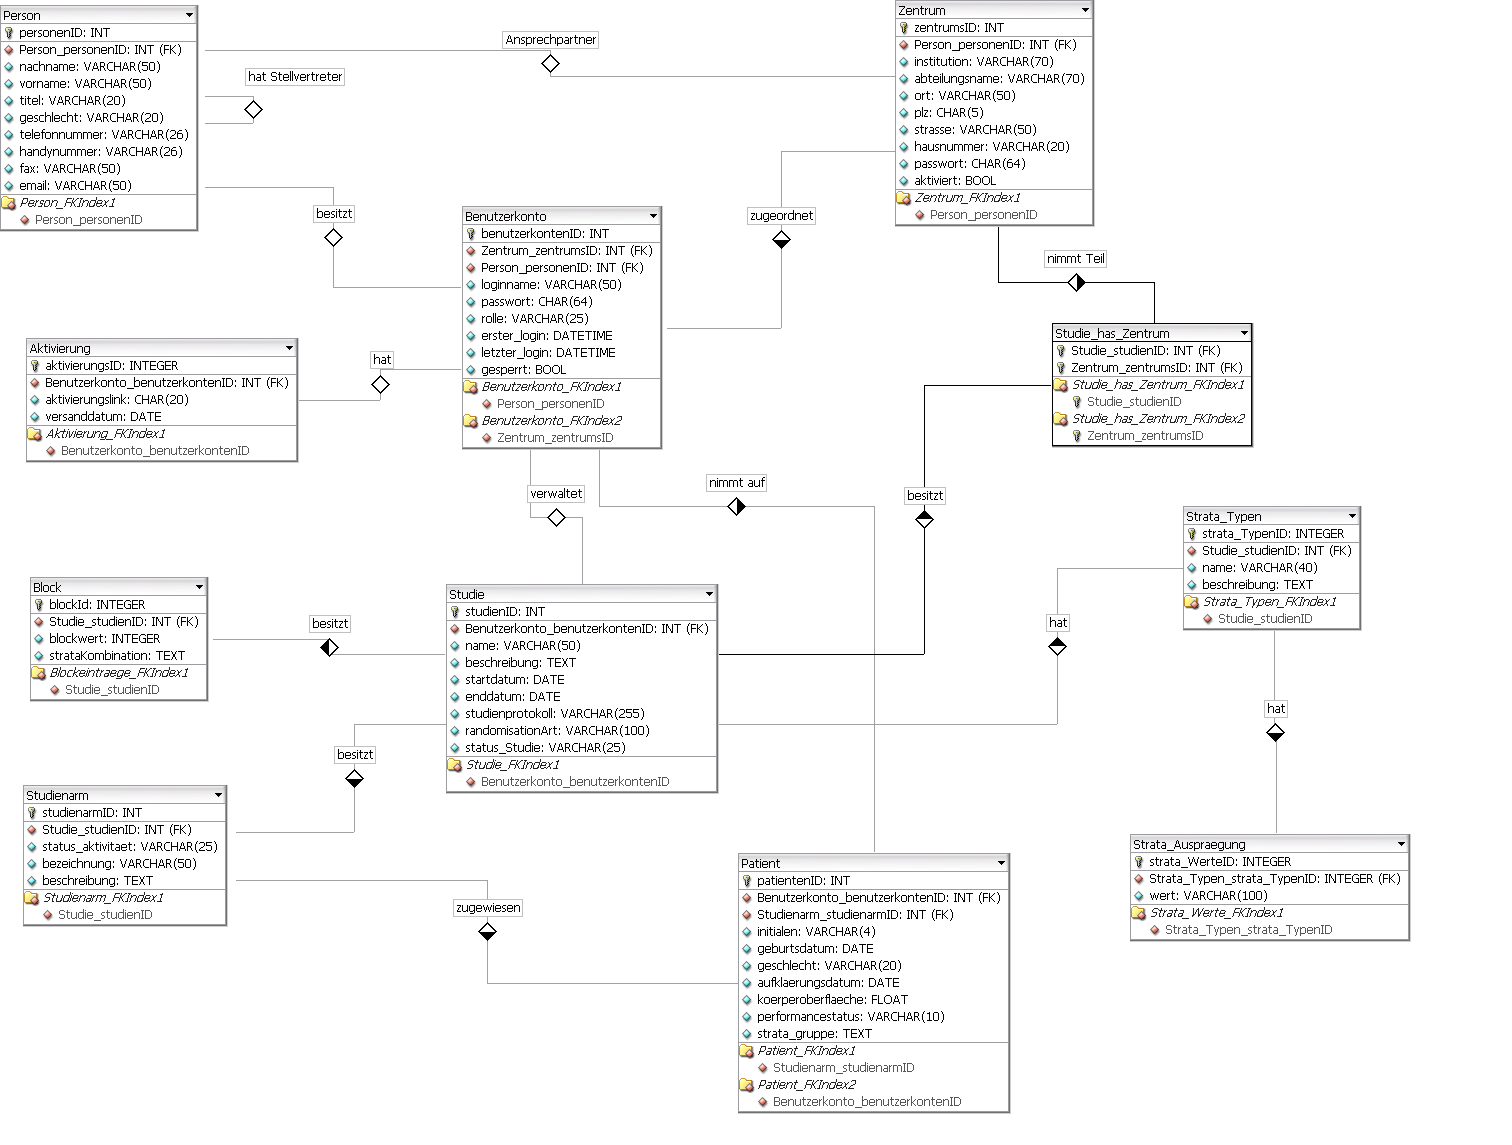
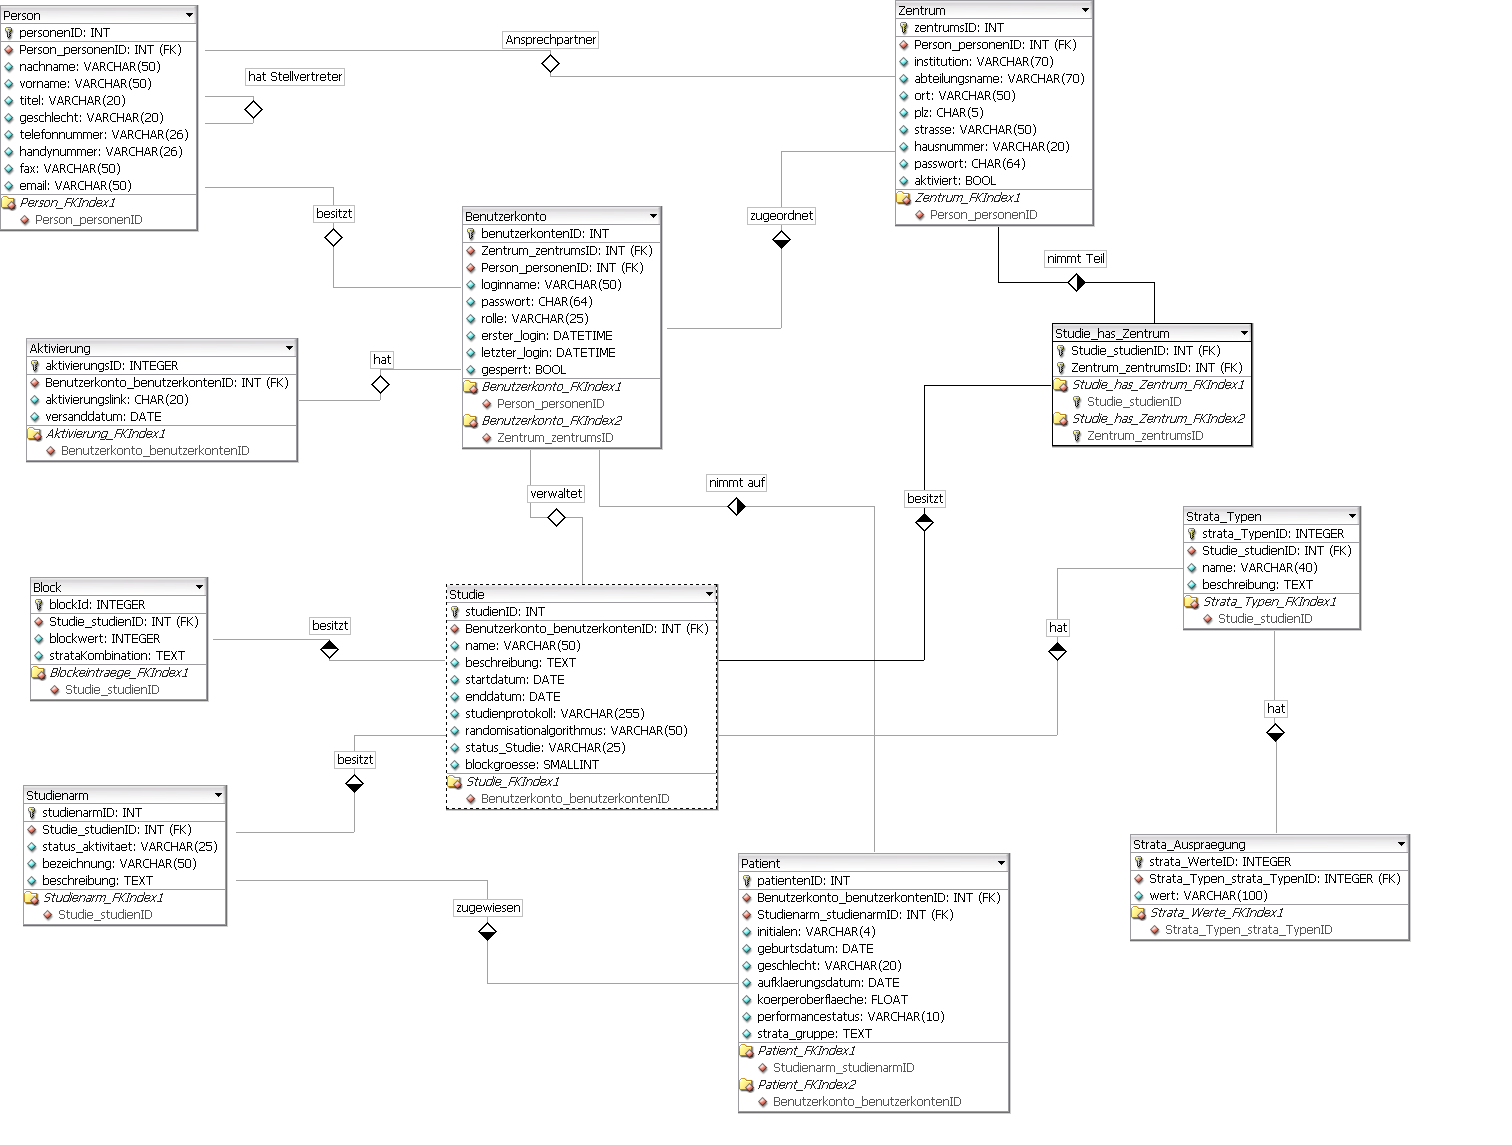
Studie hat zusaetzliches Feld: Blockgroesse
git-svn-id: https://randi2.svn.sourceforge.net/svnroot/randi2/randi/trunk/RANDI2@1642 ccfe945e-4522-0410-b90e-900a8cb55c58

diff --git a/src/de/randi2/datenbank/Datenbank.java b/src/de/randi2/datenbank/Datenbank.java
@@ -446,7 +446,12 @@ public class Datenbank implements DatenbankSchnittstelle {
 		/**
 		 * Der Status der Studie.
 		 */
-		STATUS("status_Studie");
+		STATUS("status_Studie"),
+		
+		/**
+		 * Groesse eines Blockes, falls Blockrandomisation gewaehlt ist
+		 */
+		BLOCKGROESSE("blockgroesse");
 
 		/**
 		 * Name eines Feldes.
@@ -1434,8 +1439,8 @@ public class Datenbank implements DatenbankSchnittstelle {
 						+ ", " + FelderStudie.RANDOMISATIONSALGORITHMUS + ", "
 						+ FelderStudie.STARTDATUM + ", "
 						+ FelderStudie.ENDDATUM + ", " + FelderStudie.PROTOKOLL
-						+ ", " + FelderStudie.STATUS + ") "
-						+ "VALUES (NULL,?,?,?,?,?,?,?,?)";
+						+ ", " + FelderStudie.STATUS +","+FelderStudie.BLOCKGROESSE+ ") "
+						+ "VALUES (NULL,?,?,?,?,?,?,?,?,?)";
 				pstmt = con.prepareStatement(sql,
 						Statement.RETURN_GENERATED_KEYS);
 				pstmt.setLong(i++, studie.getBenutzerkontoId());
@@ -1452,6 +1457,7 @@ public class Datenbank implements DatenbankSchnittstelle {
 						.getTimeInMillis()));
 				pstmt.setString(i++, studie.getStudienprotokollpfad());
 				pstmt.setString(i++, studie.getStatus().toString());
+				pstmt.setInt(i++, studie.getBlockgroesse());
 				pstmt.executeUpdate();
 				rs = pstmt.getGeneratedKeys();
 				rs.next();
@@ -1499,7 +1505,7 @@ public class Datenbank implements DatenbankSchnittstelle {
 					+ FelderStudie.RANDOMISATIONSALGORITHMUS + "=?, "
 					+ FelderStudie.STARTDATUM + "=?, " + FelderStudie.ENDDATUM
 					+ "=?, " + FelderStudie.PROTOKOLL + "=?, "
-					+ FelderStudie.STATUS + "=? " + "WHERE " + FelderStudie.ID
+					+ FelderStudie.STATUS + "=?, "+FelderStudie.BLOCKGROESSE+" = ? " + " WHERE " + FelderStudie.ID
 					+ "=?";
 			try {
 				pstmt = con.prepareStatement(sql);
@@ -1517,6 +1523,7 @@ public class Datenbank implements DatenbankSchnittstelle {
 						.getTimeInMillis()));
 				pstmt.setString(j++, studie.getStudienprotokollpfad());
 				pstmt.setString(j++, studie.getStatus().toString());
+				pstmt.setInt(j++, studie.getBlockgroesse());
 				pstmt.setLong(j++, studie.getId());
 				pstmt.executeUpdate();
 				pstmt.close();
@@ -2884,7 +2891,8 @@ public class Datenbank implements DatenbankSchnittstelle {
 						startDatum, endDatum, rs
 								.getString(FelderStudie.PROTOKOLL.toString()),
 						Status.parseStatus(rs.getString(FelderStudie.STATUS
-								.toString())));
+								.toString())), rs.getInt(FelderStudie.BLOCKGROESSE
+								.toString()));
 				studien.add(tmpStudie);
 			}
 			pstmt.close();
@@ -3268,7 +3276,9 @@ public class Datenbank implements DatenbankSchnittstelle {
 							startDatum, endDatum, rs
 									.getString(FelderStudie.PROTOKOLL
 											.toString()), Status.parseStatus(rs
-									.getString(FelderStudie.STATUS.toString())));
+									.getString(FelderStudie.STATUS.toString())),
+									rs.getInt(FelderStudie.BLOCKGROESSE
+											.toString()));
 
 				} catch (BenutzerException e) {
 					DatenbankExceptions de = new DatenbankExceptions(
@@ -3837,7 +3847,9 @@ public class Datenbank implements DatenbankSchnittstelle {
 							startDatum, endDatum, rs
 									.getString(FelderStudie.PROTOKOLL
 											.toString()), Status.parseStatus(rs
-									.getString(FelderStudie.STATUS.toString())));
+									.getString(FelderStudie.STATUS.toString())),
+									rs.getInt(FelderStudie.BLOCKGROESSE
+											.toString()));
 				} catch (StudieException e) {
 					DatenbankExceptions de = new DatenbankExceptions(
 							DatenbankExceptions.UNGUELTIGE_DATEN);
@@ -4081,6 +4093,8 @@ public class Datenbank implements DatenbankSchnittstelle {
 					.format(((StudieBean) aObjekt).getEndDatum().getTime()));
 			geaenderteDaten.put(FelderStudie.STATUS.toString(),
 					((StudieBean) aObjekt).getStatus().toString());
+			geaenderteDaten.put(FelderStudie.BLOCKGROESSE.toString(), 
+					String.valueOf(((StudieBean) aObjekt).getBlockgroesse()));
 
 		} else if (aObjekt instanceof StudienarmBean) {
 			geaenderteDaten.put(FelderStudienarm.STUDIE.toString(), String

diff --git a/src/de/randi2/model/fachklassen/beans/StudieBean.java b/src/de/randi2/model/fachklassen/beans/StudieBean.java
@@ -95,6 +95,11 @@ public class StudieBean extends Filter {
 	 * Status der Studie.
 	 */
 	private Status aStatus = null;
+	
+	/**
+	 * Falls die Studie mit Blockrandomisation konfiguriert ist, wird hier die Blockgroesse gespeichert
+	 */
+	private int blockgroesse= NullKonstanten.NULL_INT;
 
 	/**
 	 * Konstruktor mit allen Attributen der Klasse, die aus der Datenbank
@@ -120,6 +125,8 @@ public class StudieBean extends Filter {
 	 *            Studienprotokollpfad der Studie
 	 * @param status
 	 *            Status der Studie
+	 * @param blockgroesse
+	 * 			  Gibt die Blockgroesse fuer Blockrandomisation an
 	 * @throws StudieException
 	 *             wenn ein Fehler aufgetreten ist
 	 * @throws DatenbankExceptions
@@ -128,7 +135,7 @@ public class StudieBean extends Filter {
 	public StudieBean(long id, String beschreibung, String name,
 			Randomisation.Algorithmen algorithmus, long benutzerId,
 			GregorianCalendar startdatum, GregorianCalendar enddatum,
-			String studienprotokollPfad, Status status) throws StudieException,
+			String studienprotokollPfad, Status status, int blockgroesse) throws StudieException,
 			DatenbankExceptions {
 
 		super.setId(id);
@@ -139,6 +146,7 @@ public class StudieBean extends Filter {
 		this.setStudienZeitraum(startdatum, enddatum);
 		this.setStudienprotokollPfad(studienprotokollPfad);
 		this.setStatus(status);
+		this.setBlockgroesse(blockgroesse);
 	}
 
 	/**
@@ -702,5 +710,29 @@ public class StudieBean extends Filter {
 
 		aAlgorithmus = algorithmus;
 	}
+
+	/**
+	 * Get-Methode fuer die Blockgroesse
+	 * @return
+	 * 			Blockgroesse
+	 */
+	public int getBlockgroesse() {
+		return blockgroesse;
+	}
+
+	/**
+	 * Set Methode fuer die Blockgroesse
+	 * @param blockgroesse
+	 * 				zu setzende Blockgroesse
+	 * @throws StudieException 
+	 */
+	public void setBlockgroesse(int blockgroesse) throws StudieException {
+		if(blockgroesse<2) {
+			throw new StudieException(StudieException.BLOCKGROESSE_ZU_KLEIN);
+		}
+		this.blockgroesse = blockgroesse;
+	}
+	
+	
 
 }

diff --git a/src/de/randi2/model/exceptions/StudieException.java b/src/de/randi2/model/exceptions/StudieException.java
@@ -83,6 +83,11 @@ public class StudieException extends BenutzerException {
 	 */
 	public static final String STUDIENPROTOKOLL_LEER = "Das Studienprotokoll ist leer.";
 	
+	/**
+	 * Falls versucht wurde eine nicht erlaubte Blockgroesse zu setzen, wird diese Konstate uebergeben.
+	 */
+	public static final String BLOCKGROESSE_ZU_KLEIN="Die gewaehlte Blockgroesse ist zu klein.";
+	
 	
 	/**
 	 * Ein Konstruktor dieser Klasse
